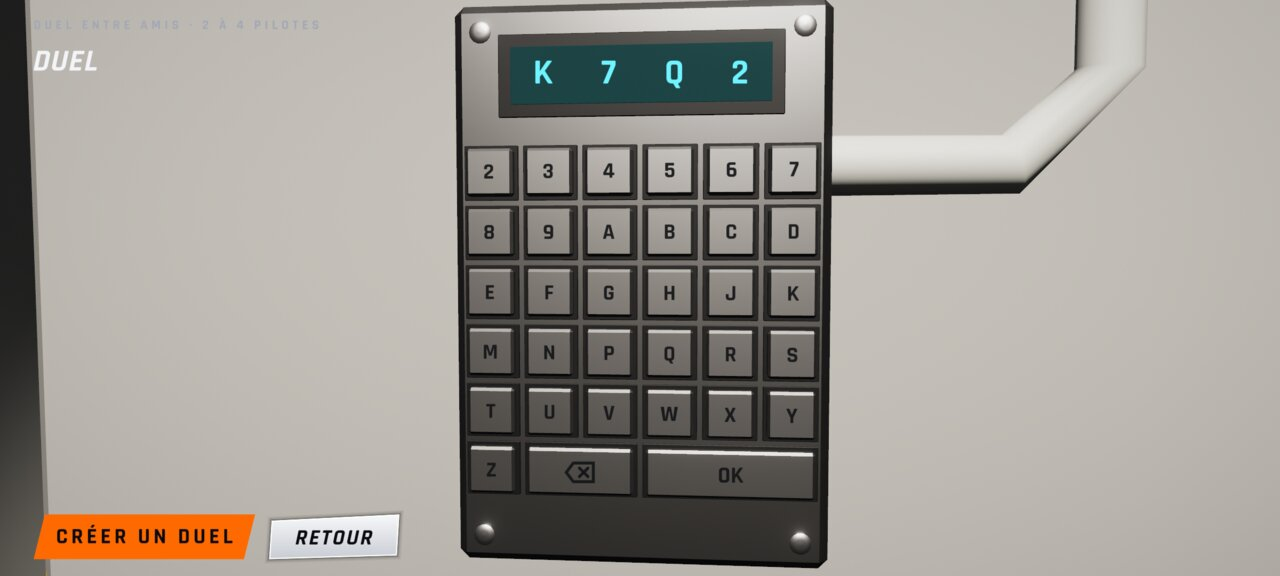
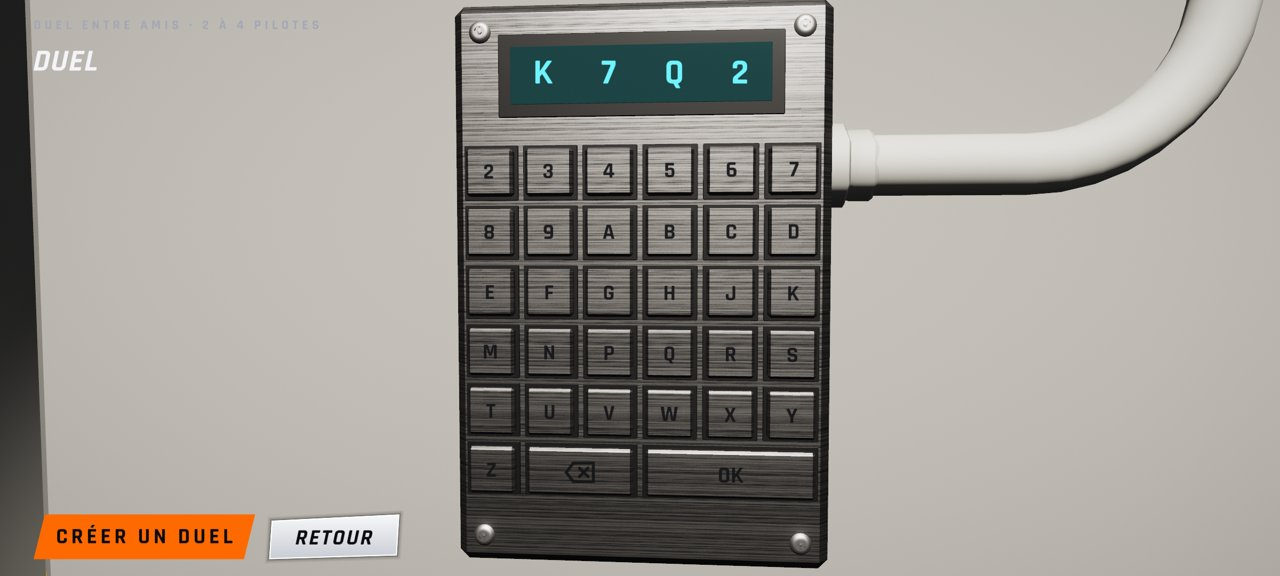
WFS-558 : avis agent 3D : vis à empreinte, gaine cintrée et presse-étoupe, inox brossé, plaque dégagée (Claude, agent dev3d (01Us6uCtQN))
Claude-Session: https://claude.ai/code/session_01Us6uCtQNFWC6KwvYiHKmMk

diff --git a/src/ui/salon_parking.cpp b/src/ui/salon_parking.cpp
@@ -59,11 +59,18 @@ Repere repereFace(const Repere& R) { return {R.o, R.x, R.z, R.y * -1.f}; }
 
 void pave(Geo& g, const Repere& R, vec3 c, vec3 h, float ch) { mobilier::pave(Sortie(g), R, c, h, ch, UV0); }
 
-// tête de vis inviolable bombée Ø 7 mm (inox), ou rivet Ø 4 mm, posée sur la surface z
-void tete(Geo& g, const Repere& R, float x, float y, float z, float rayon) {
+// tête de vis inviolable Ø 7 mm (inox) : tête bombée basse ISO 7380 (hauteur 0,2 × Ø), empreinte creusée (Ø 0,55 × la tête,
+// 6 lobes de la Torx à téton) et téton central ; rivet Ø 4 mm (sans empreinte), posés sur la surface z
+void tete(Geo& g, const Repere& R, float x, float y, float z, float rayon, bool empreinte = true) {
     const Repere F = repereFace(R);
-    const float h = rayon * 0.28f;   // tête bombée basse (ISO 7380), pas une bille
-    mobilier::tour(Sortie(g), F, {x, z, -y}, {{rayon, 0.f}, {rayon, h * 0.25f}, {rayon * 0.80f, h * 0.75f}, {rayon * 0.45f, h}, {0.f, h * 1.05f}}, 14, UV0);
+    const float h = rayon * 0.40f;
+    if (!empreinte) { mobilier::tour(Sortie(g), F, {x, z, -y}, {{rayon, 0.f}, {rayon, h * 0.2f}, {rayon * 0.75f, h * 0.8f}, {0.f, h}}, 14, UV0); return; }
+    const float re = rayon * 0.55f, fond = h * 0.25f, teton = rayon * 0.16f;
+    // tête : flanc, dôme, puis bord plat de l'empreinte (anneau jusqu'à 0,80 × son rayon)
+    mobilier::tour(Sortie(g), F, {x, z, -y}, {{rayon, 0.f}, {rayon, h * 0.20f}, {rayon * 0.82f, h * 0.75f}, {re + rayon * 0.06f, h},
+                                               {re * 0.80f, h * 0.97f}}, 24, UV0);
+    // empreinte à 6 lobes (rayon 0,78 à 0,98 × re) : paroi qui descend (normales vers l'intérieur), fond, téton central
+    mobilier::tour(Sortie(g), F, {x, z, -y}, {{re * 0.78f, h * 0.97f}, {re * 0.78f, fond}, {teton, fond}, {teton, h * 0.80f}, {0.f, h * 0.84f}}, 36, UV0, 6, 0.25f);
 }
 
 class Decor {
@@ -86,8 +93,20 @@ public:
         // ---- vis inviolables aux 4 coins (Ø 7 mm)
         for (float sx : {-1.f, 1.f}) for (float sy : {-1.f, 1.f}) tete(g[VIS], R, sx * (FACE_L / 2 - 0.009f), sy * (FACE_H / 2 - 0.009f), EPAIS, 0.0035f);
         // ---- gaine IRL Ø 20 mm : sort du flanc droit du boîtier, monte le long du poteau jusqu'à la poutre (2,20 m) ; colliers
-        const float xg = 0.150f, zg = 0.011f, haut = 2.20f - DIGI_Y;
-        mobilier::tube(Sortie(g[PVC]), R, {{FACE_L / 2 - 0.004f, 0.040f, zg}, {xg - 0.03f, 0.040f, zg}, {xg, 0.070f, zg}, {xg, haut, zg}}, 0.010f, 12, UV0, true);
+        // à 25 mm du bord de la plaque (x = 0,150 m) ; sortie horizontale par un presse-étoupe, coude cintré de 60 mm de rayon
+        const float xg = 0.185f, zg = 0.011f, haut = 2.20f - DIGI_Y, yg = 0.040f, RC = 0.060f, xp = FACE_L / 2 + 0.016f;
+        {   // presse-étoupe PG 16 en polyamide gris : écrou six pans (24 mm sur plats) puis chapeau de serrage, axe le long de x
+            const Repere P{R.p({FACE_L / 2, yg, zg}), R.y, R.x, R.z * -1.f};
+            mobilier::tour(Sortie(g[PVC]), P, {0, 0, 0}, {{0.0139f, 0.f}, {0.0139f, 0.006f}, {0.0125f, 0.0068f}, {0.0115f, 0.0068f}, {0.0115f, 0.0075f},
+                                                          {0.0118f, 0.0080f}, {0.0118f, 0.0145f}, {0.0108f, 0.0158f}, {0.0100f, 0.016f}}, 6, UV0);
+        }
+        std::vector<vec3> trace{{xp - 0.001f, yg, zg}, {xg - RC, yg, zg}};
+        for (int k = 1; k <= 10; k++) {   // quart de cercle : de l'horizontale à la verticale
+            const float a = (PI / 2) * (float)k / 10.f;
+            trace.push_back({xg - RC + RC * std::sin(a), yg + RC - RC * std::cos(a), zg});
+        }
+        trace.push_back({xg, haut, zg});
+        mobilier::tube(Sortie(g[PVC]), R, trace, 0.010f, 12, UV0, true);
         for (float y = 0.16f; y < haut - 0.05f; y += 0.20f) {
             pave(g[PVC], R, {xg, y, zg}, {0.0125f, 0.006f, 0.0115f}, 0.002f);                 // collier à embase
             tete(g[VIS], R, xg + 0.017f, y, 0.0f, 0.0025f);                                  // vis de l'embase
@@ -98,8 +117,15 @@ public:
         pave(g[BORD], R, {0, py, pz + 0.00075f}, {PL, PH, 0.00075f}, 0.0007f);
         pave(g[PLAQUE], R, {0, py, pz + 0.0016f}, {PL - 0.006f, PH - 0.006f, 0.0001f}, 0.0001f);
         pave(g[BANDE], R, {-PL + 0.006f + 0.016f, py, pz + 0.0018f}, {0.016f, PH - 0.006f, 0.0001f}, 0.0001f);
-        for (float sx : {-1.f, 1.f}) for (float sy : {-1.f, 1.f}) tete(g[VIS], R, sx * (PL - 0.012f), py + sy * (PH - 0.012f), pz + 0.0019f, 0.002f);
+        for (float sx : {-1.f, 1.f}) for (float sy : {-1.f, 1.f}) tete(g[VIS], R, sx * (PL - 0.012f), py + sy * (PH - 0.012f), pz + 0.0019f, 0.002f, false);
         for (float sx : {-1.f, 1.f}) pave(g[PVC], R, {sx * (PL - 0.012f), py, pz / 2}, {0.004f, 0.004f, pz / 2}, 0.001f);   // entretoises
+        // ---- inox brossé : uv planes en mètres dans le repère du digicode (façade, touches), × 20 : une texture pour 5 cm ; le
+        // brossage suit x (stries horizontales, comme une tôle brossée en long)
+        for (int k : {INOX, TOUCHE})
+            for (Vertex& v : g[k].v) {
+                const vec3 d{v.px - R.o.x, v.py - R.o.y, v.pz - R.o.z};
+                v.u = dot(d, R.x) * 20.f; v.v = dot(d, R.y) * 20.f;
+            }
         // ---- envoi : un maillage par matériau ; mémoire refusée → rien n'est gardé (repli : écran 2D d'avant)
         bool ok = true; triangles_ = 0;
         for (int k = 0; k < NB_MATS; k++) {
@@ -109,15 +135,16 @@ public:
             triangles_ += g[k].i.size() / 3;
         }
         if (!ok) { WFS_ERR("salon (WFS-558) : mémoire graphique refusée pour le digicode : écran 2D gardé (repli)"); liberer(r); return false; }
-        auto mat = [&](int k, vec3 c, float rough, float metal, vec3 em = {0, 0, 0}) {
+        brossage(r);
+        auto mat = [&](int k, vec3 c, float rough, float metal, vec3 em = {0, 0, 0}, bool brosse = false) {
             Material m; m.color = {c.x, c.y, c.z, 1}; m.rough = rough; m.metal = metal; m.emissive = em;
-            mat_[k] = r.makeMaterial(m, nullptr, nullptr, nullptr);
+            mat_[k] = brosse && grain_.view ? r.makeMaterial(m, &grain_, nullptr, &grainMR_) : r.makeMaterial(m, nullptr, nullptr, nullptr);
         };
-        mat(INOX, {0.60f, 0.60f, 0.61f}, 0.34f, 1);             // inox 304 brossé (F0 ≈ 0,56-0,62 ; brossé : rugosité 0,30-0,40)
-        mat(TOUCHE, {0.64f, 0.64f, 0.65f}, 0.38f, 1);           // touches en inox brossé (même finition que la façade)
+        mat(INOX, {0.62f, 0.62f, 0.63f}, 0.44f, 1, {}, true);   // inox 304 brossé (F0 ≈ 0,56-0,62 ; rugosité 0,25-0,44 selon la strie)
+        mat(TOUCHE, {0.65f, 0.65f, 0.66f}, 0.44f, 1, {}, true); // touches en inox brossé (même finition que la façade)
         mat(CADRE, lin(0x141518), 0.55f, 0);                    // plastique ABS noir, joint en EPDM
         mat(LCD, {0.010f, 0.030f, 0.032f}, 0.08f, 0, vec3{0.003f, 0.016f, 0.018f});   // cristaux liquides à rétroéclairage cyan (éteint : vert-noir)
-        mat(VIS, {0.55f, 0.55f, 0.56f}, 0.40f, 1);              // têtes de vis et rivets inox
+        mat(VIS, {0.55f, 0.55f, 0.56f}, 0.48f, 1);              // têtes de vis et rivets inox (tête décolletée, mate)
         mat(PVC, lin(0xB4B6B2), 0.65f, 0);                      // PVC gris clair RAL 7035
         mat(PLAQUE, {0.78f, 0.78f, 0.76f}, 0.35f, 0);           // film rétroréfléchissant blanc
         mat(BANDE, lin(0xE85A12), 0.40f, 0);                    // bande orange (RAL 2004)
@@ -132,6 +159,9 @@ public:
         r.vk().waitIdle();
         for (Mesh& m : mesh_) { if (m.vb.buf != VK_NULL_HANDLE || m.ib.buf != VK_NULL_HANDLE) r.destroy(m); m = Mesh{}; }
         for (Material& m : mat_) { if (m.set != VK_NULL_HANDLE) r.destroy(m); m = Material{}; }
+        if (grain_.view) r.vk().destroy(grain_);
+        if (grainMR_.view) r.vk().destroy(grainMR_);
+        grain_ = Image{}; grainMR_ = Image{};
         if (garee_.ok) r.destroy(garee_);
         garee_ = Model{};
         for (auto& [id, m] : adversaires_) r.destroy(m);
@@ -163,8 +193,31 @@ public:
     }
     vec3 r_camera_{};
 private:
+    // grain de l'inox brossé (256 × 256, généré au chargement, déterministe) : stries fines le long de u, chacune d'une longueur
+    // et d'une profondeur au hasard ; couleur (sRGB, ± 6 %) et rugosité (canal g : 0,55 à 1 × la rugosité du matériau)
+    void brossage(Renderer& r) {
+        constexpr int N = 256;
+        std::vector<uint8_t> c((size_t)N * N * 4), mr((size_t)N * N * 4);
+        uint32_t graine = 0x5A17D16u;
+        auto hasard = [&]() { graine ^= graine << 13; graine ^= graine >> 17; graine ^= graine << 5; return (float)(graine & 0xFFFF) / 65535.f; };
+        std::vector<float> ligne(N), phase(N), longueur(N);
+        for (int y = 0; y < N; y++) { ligne[(size_t)y] = hasard(); phase[(size_t)y] = hasard() * 6.2832f; longueur[(size_t)y] = 1.f + hasard() * 5.f; }
+        for (int y = 0; y < N; y++)
+            for (int x = 0; x < N; x++) {
+                // strie de la rangée y, modulée le long de x (rayures qui commencent et s'arrêtent), plus un grain très fin
+                const float le = 0.5f + 0.5f * std::sin(phase[(size_t)y] + 6.2832f * longueur[(size_t)y] * (float)x / N);
+                const float s = std::clamp(0.55f * ligne[(size_t)y] + 0.30f * le * ligne[(size_t)y] + 0.15f * hasard(), 0.f, 1.f);
+                const size_t i = ((size_t)y * N + (size_t)x) * 4;
+                const uint8_t v = (uint8_t)std::lround(255.f * (0.94f + 0.06f * s));
+                c[i] = c[i + 1] = c[i + 2] = v; c[i + 3] = 255;
+                mr[i] = 255; mr[i + 1] = (uint8_t)std::lround(255.f * (0.55f + 0.45f * (1.f - s))); mr[i + 2] = 255; mr[i + 3] = 255;
+            }
+        grain_ = r.vk().uploadTexture(c.data(), N, N, true);
+        grainMR_ = r.vk().uploadTexture(mr.data(), N, N, false);
+    }
     Mesh mesh_[NB_MATS]{};
     Material mat_[NB_MATS]{};
+    Image grain_{}, grainMR_{};
     Model garee_{};
     std::map<std::string, Model> adversaires_;
     bool pret_ = false;
@@ -271,7 +324,7 @@ public:
             v.touches[k] = proche ? touches_[k] : Rect{};
         }
         afficheur_ = rectEcran(VP, M_, R, {0, Y_AFF, EPAIS + 0.0011f}, {AFF_L / 2 - 0.004f, AFF_H / 2 - 0.004f}, W, H);
-        plaque_ = rectEcran(VP, M_, R, {0.016f, PLAQUE_DY, 0.0098f}, {0.150f - 0.04f, 0.050f - 0.006f}, W, H);
+        plaque_ = rectEcran(VP, M_, R, {0.024f, PLAQUE_DY, 0.0098f}, {0.150f - 0.054f, 0.050f - 0.008f}, W, H);   // à 34 mm de la bande orange
         bande_ = rectEcran(VP, M_, R, {-0.150f + 0.022f, PLAQUE_DY, 0.0098f}, {0.016f, 0.044f}, W, H);
         decor().r_camera_ = oeil;
         v.active = true;
@@ -315,8 +368,8 @@ public:
         }
         if (plaque_.ok && plaque_.h >= 3.f) {   // pseudo du joueur (RG-07), gravé noir sur le film blanc ; « WFS » sur la bande
             const float px = plaque_.h * 0.70f;
-            ui::textBoite(r, plaque_.x, plaque_.y, plaque_.w, plaque_.h, px, ui::majuscules(sauvegarde().nick), hexa(0x141518), ui::CENTRE, 0.04f, false, false);
-            if (bande_.ok && bande_.h >= 6.f) ui::textBoite(r, bande_.x, bande_.y + bande_.h * 0.62f, bande_.w, bande_.h * 0.3f, bande_.h * 0.22f, "WFS", hexa(0xFFFFFF, 0.95f), ui::CENTRE, 0, false, false);
+            ui::textBoite(r, plaque_.x + plaque_.w / 2, plaque_.y, plaque_.w, plaque_.h, px, ui::majuscules(sauvegarde().nick), hexa(0x141518), ui::CENTRE, 0.04f, false, false);
+            if (bande_.ok && bande_.h >= 6.f) ui::textBoite(r, bande_.x + bande_.w / 2, bande_.y + bande_.h * 0.62f, bande_.w, bande_.h * 0.3f, bande_.h * 0.22f, "WFS", hexa(0xFFFFFF, 0.95f), ui::CENTRE, 0, false, false);
         }
     }
 private:
